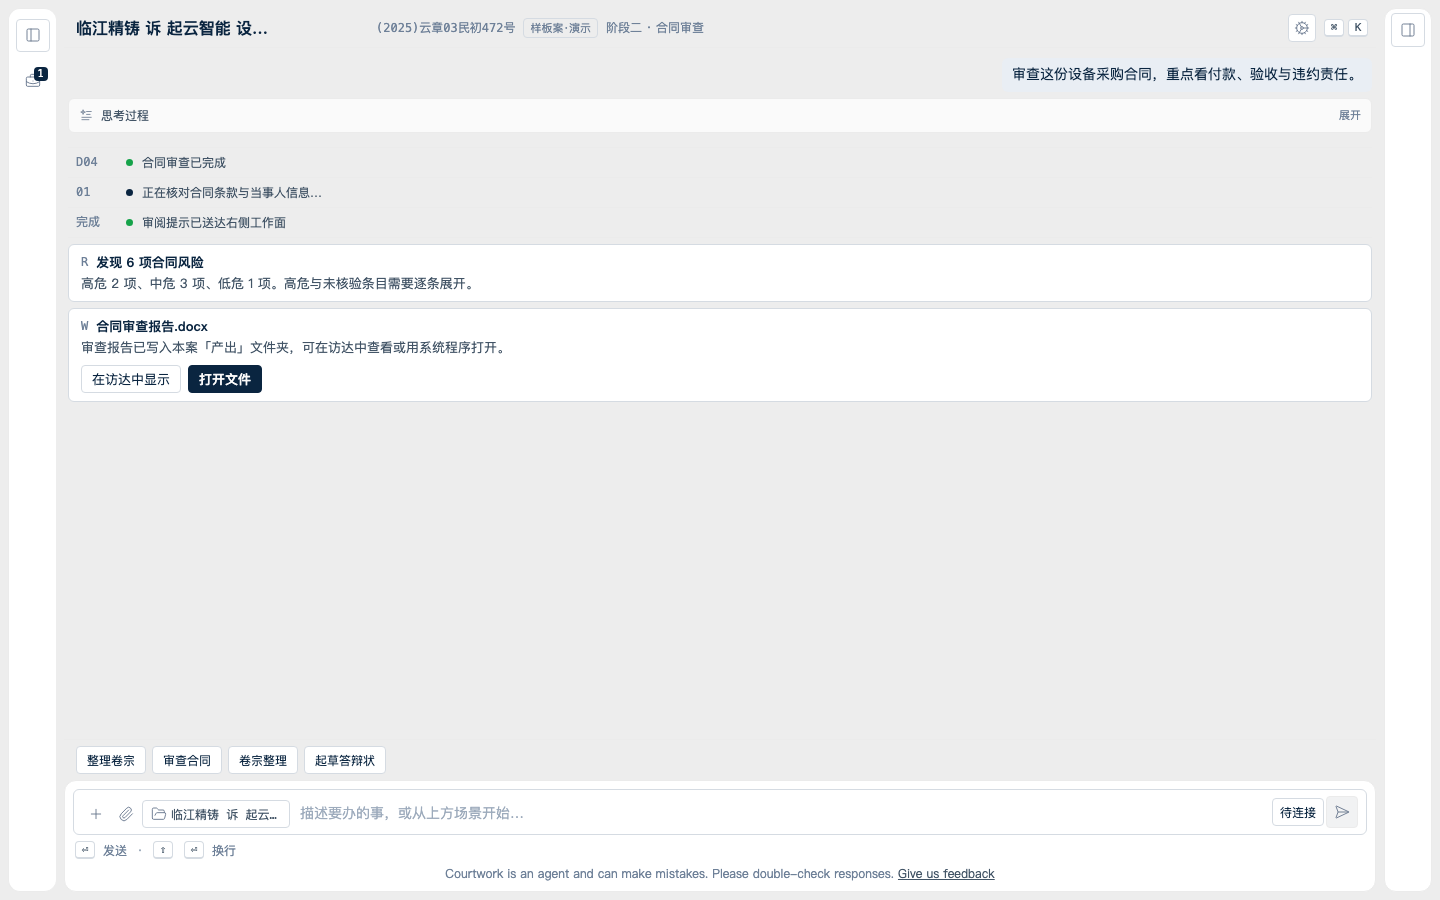
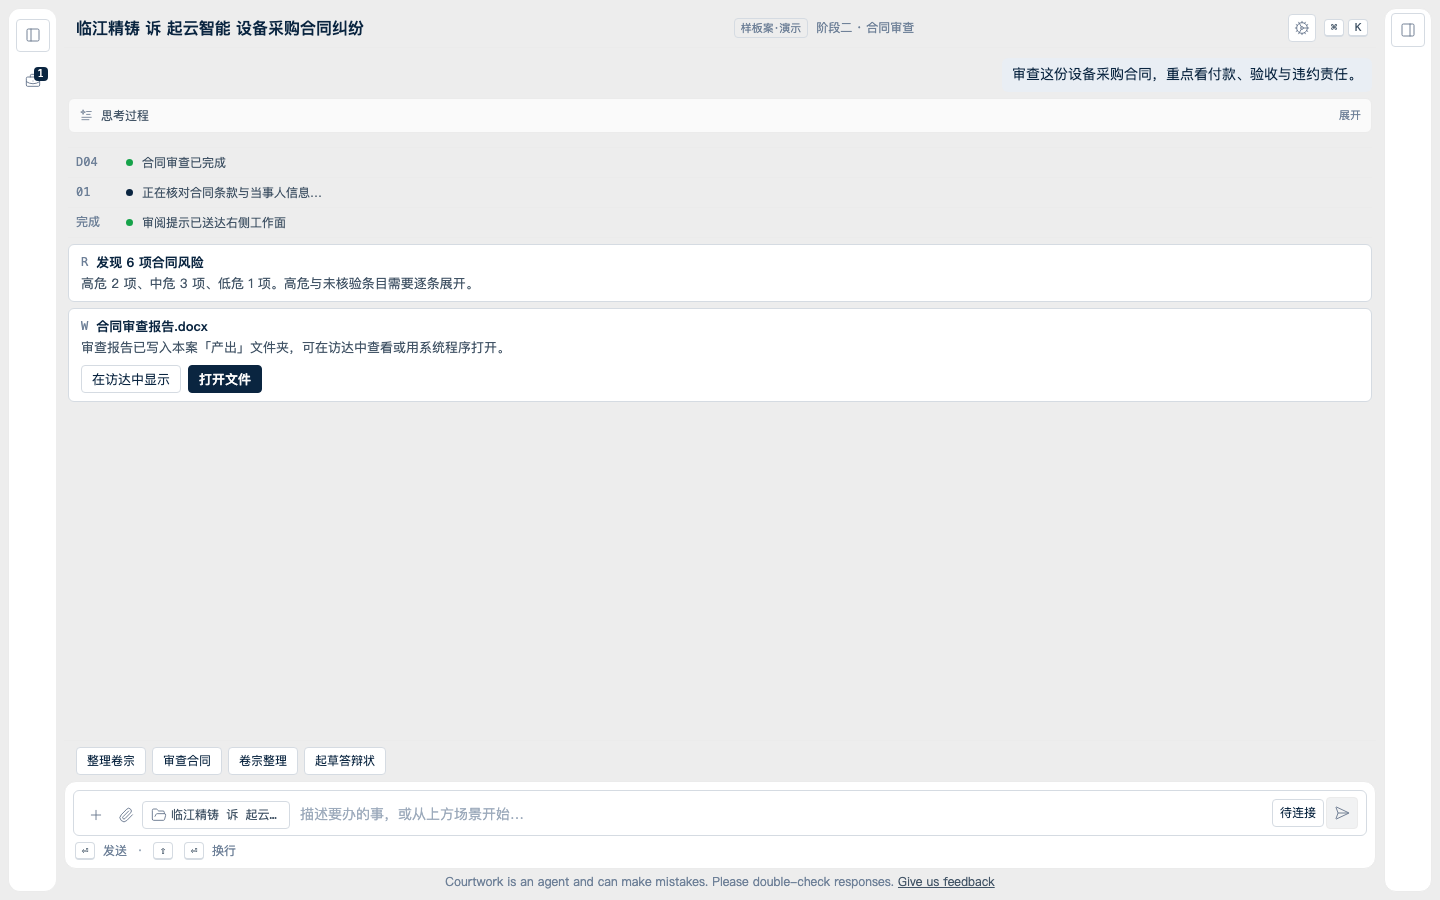
feat(desktop): close RP-2.3 responsive schema layout

diff --git a/apps/desktop/src/styles.css b/apps/desktop/src/styles.css
@@ -33,6 +33,17 @@
   --slate-fg: #475569;
   --slate-bg: #f1f5f9;
   --mono: ui-monospace, "SF Mono", "JetBrains Mono", Menlo, Consolas, "Courier New", monospace;
+  --type-dense-body-size: 13px;
+  --type-dense-meta-size: 12px;
+  --type-dense-line-height: 1.5;
+  --type-dense-mono: var(--mono);
+  --type-reading-size: 15px;
+  --type-reading-line-height: 1.6;
+  --rail-left-width: 248px;
+  --rail-left-min: 224px;
+  --chat-min: 420px;
+  --schema-min: 560px;
+  --rail-collapsed: 48px;
   --motion-press: 70ms;
   --motion-hover: 120ms;
   --motion-tab: 100ms;
@@ -106,7 +117,7 @@ kbd { min-width: 20px; padding: 2px 5px; border: 1px solid var(--border-strong);
 .workspace {
   min-height: 0;
   display: grid;
-  grid-template-columns: 248px minmax(440px, .9fr) minmax(520px, 1.25fr);
+  grid-template-columns: minmax(var(--rail-left-min), var(--rail-left-width)) minmax(var(--chat-min), .9fr) minmax(var(--schema-min), 1.25fr);
   gap: var(--elevation-shell-gap);
   padding: var(--elevation-float-inset);
   transition: none;
@@ -116,9 +127,9 @@ kbd { min-width: 20px; padding: 2px 5px; border: 1px solid var(--border-strong);
 .rail-wordmark img { width: 18px; height: 18px; }
 .workspace.comparing { grid-template-columns: 48px 300px minmax(0, 1fr); }
 .workspace.focus-mode { grid-template-columns: minmax(0, 1fr); padding: var(--elevation-float-inset); }
-.workspace.left-collapsed { grid-template-columns: 48px minmax(400px, .72fr) minmax(680px, 1.55fr); }
-.workspace.right-collapsed { grid-template-columns: 248px minmax(440px, 1fr) 48px; }
-.workspace.left-collapsed.right-collapsed { grid-template-columns: 48px minmax(0, 1fr) 48px; }
+.workspace.left-collapsed { grid-template-columns: var(--rail-collapsed) minmax(var(--chat-min), .9fr) minmax(var(--schema-min), 1.25fr); }
+.workspace.right-collapsed { grid-template-columns: minmax(var(--rail-left-min), var(--rail-left-width)) minmax(var(--chat-min), 1fr) var(--rail-collapsed); }
+.workspace.left-collapsed.right-collapsed { grid-template-columns: var(--rail-collapsed) minmax(var(--chat-min), 1fr) var(--rail-collapsed); }
 .workspace.rails-compact { grid-template-columns: 48px minmax(0, 1fr) minmax(280px, 320px); }
 .case-rail, .conversation, .right-workbench { min-width: 0; min-height: 0; display: flex; flex-direction: column; border-right: 0; }
 .right-workbench { border-right: 0; overflow: hidden; }
@@ -296,7 +307,7 @@ kbd { min-width: 20px; padding: 2px 5px; border: 1px solid var(--border-strong);
   padding: 8px;
   flex: none;
 }
-.composer-stack { flex: none; display: grid; gap: 4px; }
+.composer-stack { flex: none; display: grid; gap: 4px; container-type: inline-size; }
 .composer-float .composer-shell { margin: 0; }
 .user-message { align-self: flex-end; max-width: 88%; padding: 6px 10px; border: 0; border-radius: 6px; background: var(--bg-selected); line-height: 1.55; }
 .data-card, .detail-card, .generated-callout { position: relative; }
@@ -578,7 +589,7 @@ kbd { min-width: 20px; padding: 2px 5px; border: 1px solid var(--border-strong);
   color: var(--text-secondary); font-size: 13px;
 }
 .stack-module-head:hover { background: var(--bg-hover); }
-.stack-module-title { min-width: 0; flex: 1 1 auto; overflow: hidden; text-overflow: ellipsis; white-space: nowrap; color: var(--text-primary); font-weight: 510; font-size: 13px; }
+.stack-module-title { min-width: 0; flex: 1 1 auto; overflow: hidden; text-overflow: ellipsis; white-space: nowrap; color: var(--text-primary); font-weight: 510; font-size: var(--type-dense-body-size); }
 .stack-module-count {
   flex: none; margin-left: auto; color: var(--text-tertiary); font: 12px/1.5 var(--mono); font-variant-numeric: tabular-nums;
 }
@@ -610,14 +621,14 @@ kbd { min-width: 20px; padding: 2px 5px; border: 1px solid var(--border-strong);
 .work-surface-head { border-top: 1px solid var(--border); }
 
 .view-tabs { height: 40px; flex: none; display: flex; gap: 3px; align-items: center; padding: 0 8px; border-bottom: 1px solid var(--border); overflow-x: auto; }
-.view-tabs button { position: relative; height: 28px; padding: 0 8px; border: 1px solid transparent; border-radius: 4px; background: transparent; color: var(--text-secondary); cursor: pointer; font-size: 12px; white-space: nowrap; }
+.view-tabs button { position: relative; height: 28px; padding: 0 8px; border: 1px solid transparent; border-radius: 4px; background: transparent; color: var(--text-secondary); cursor: pointer; font-size: var(--type-dense-meta-size); white-space: nowrap; }
 .view-tabs button:hover { background: var(--bg-hover); }
 .view-tabs button.active { border-color: var(--border-strong); background: #fff; color: var(--text-primary); font-weight: 510; }
 .tab-indicator { position: absolute; right: 6px; bottom: 1px; left: 6px; height: 2px; border-radius: 1px; background: var(--text-primary); transform: scaleX(0); transform-origin: center; transition: transform var(--motion-tab) ease-out; }
 .view-tabs button.active .tab-indicator { transform: scaleX(1); }
 .view-tabs .view-action { display: flex; align-items: center; gap: 5px; border-color: var(--border-strong); }
 .view-tabs .icon-button { width: 28px; display: grid; place-items: center; padding: 0; border-color: var(--border); }
-.view-content { flex: 1; min-height: 0; overflow: hidden; background: #fff; }
+.view-content { flex: 1; min-height: 0; overflow: hidden; background: #fff; container-type: inline-size; }
 .static-viewport { width: 100%; height: 100%; overflow: auto; overscroll-behavior: contain; }
 .empty-state { margin: 16px; padding: 18px; border: 1px dashed var(--border-strong); border-radius: 6px; color: var(--text-tertiary); font-size: 13px; text-align: center; }
 
@@ -643,7 +654,7 @@ kbd { min-width: 20px; padding: 2px 5px; border: 1px solid var(--border-strong);
 
 .table-head { min-height: 28px; align-items: center; border-bottom: 1px solid var(--border); background: var(--bg-surface); color: var(--text-tertiary); font-size: 12px; }
 .dense-table { background: #fff; }
-.dense-row { position: relative; width: 100%; min-height: 30px; align-items: center; border: 0; border-bottom: 1px solid var(--border); background: #fff; cursor: pointer; text-align: left; font-size: 13px; }
+.dense-row { position: relative; width: 100%; min-height: 30px; align-items: center; border: 0; border-bottom: 1px solid var(--border); background: #fff; cursor: pointer; text-align: left; font-size: var(--type-dense-body-size); line-height: var(--type-dense-line-height); }
 .dense-row:hover { background: var(--bg-hover); }
 .dense-row.selected { background: var(--bg-selected); }
 .dense-row > span:not(.signature-line), .dense-row > time, .table-head > span { min-width: 0; padding: 5px 8px; overflow: hidden; text-overflow: ellipsis; white-space: nowrap; }
@@ -652,7 +663,7 @@ kbd { min-width: 20px; padding: 2px 5px; border: 1px solid var(--border-strong);
 .timeline-grid { display: grid; grid-template-columns: 98px 48px minmax(260px, 1fr) 64px; }
 .timeline-grid time { padding-left: 12px; color: var(--text-tertiary); font: 12px/1.5 var(--mono); font-variant-numeric: tabular-nums; }
 .timeline-events { max-height: 56vh; overflow: auto; }
-.detail-card { margin: 10px 12px; width: calc(100% - 24px); font-size: 13px; }
+.detail-card { margin: 10px 12px; width: calc(100% - 24px); font-size: var(--type-dense-body-size); line-height: var(--type-dense-line-height); }
 .detail-card p { margin: 0 0 6px; line-height: 1.55; }
 .verified-block { display: grid; grid-template-columns: 22px max-content minmax(0, 1fr); gap: 7px; align-items: start; padding: 6px 8px; border-top: 1px solid var(--border); border-bottom: 1px solid var(--border); border-radius: 0; background: var(--verified); font-size: 12px; }
 .verified-block button { min-width: 0; padding: 0; border: 0; background: transparent; overflow: hidden; color: var(--blue-fg); cursor: pointer; text-align: left; text-overflow: ellipsis; white-space: nowrap; }
@@ -705,11 +716,11 @@ kbd { min-width: 20px; padding: 2px 5px; border: 1px solid var(--border-strong);
 .matrix-wrap td:has(button:not(:disabled)):hover { background: var(--verified); }
 .matrix-legend { height: 32px; display: flex; justify-content: space-between; align-items: center; padding: 0 10px; color: var(--text-tertiary); font-size: 12px; }
 
-.revision-layout { min-width: 720px; }
+.revision-layout { min-width: 0; }
 .batch-bar { min-height: 36px; display: flex; align-items: center; gap: 10px; padding: 4px 10px; border-bottom: 1px solid var(--border); background: var(--bg-surface); font-size: 12px; }
 .batch-bar small { margin-left: auto; color: var(--text-tertiary); }
 .submission-note { padding: 5px 10px; border-bottom: 1px solid var(--border); color: var(--green-fg); font-size: 12px; }
-.risk-master-detail { min-height: 360px; display: grid; grid-template-columns: minmax(300px, 40%) minmax(360px, 60%); border-bottom: 1px solid var(--border); }
+.risk-master-detail { min-height: 360px; display: grid; grid-template-columns: minmax(220px, 38%) minmax(0, 62%); border-bottom: 1px solid var(--border); }
 .risk-list { border-right: 1px solid var(--border); }
 .risk-grid { display: grid; grid-template-columns: minmax(0, 1fr) 40px 58px; }
 .risk-grid > span:not(.signature-line):first-of-type { padding-left: 12px; }
@@ -741,12 +752,29 @@ kbd { min-width: 20px; padding: 2px 5px; border: 1px solid var(--border-strong);
 .risk-detail > footer { display: flex; flex-wrap: wrap; align-items: center; gap: 6px; margin-top: 10px; color: var(--text-tertiary); font-size: 12px; }
 .risk-detail > footer > span:first-child { flex-basis: 100%; }
 .risk-detail > footer i { flex: 1; }
-.document-preview { padding: 14px 24px; background: #fff; font-size: 15px; line-height: 1.6; text-align: justify; }
+.document-preview { padding: 14px 24px; background: #fff; font-size: var(--type-reading-size); line-height: var(--type-reading-line-height); text-align: justify; }
 .document-preview header { display: flex; justify-content: space-between; gap: 12px; padding-bottom: 8px; border-bottom: 1px solid var(--border); }
 .document-preview header strong { min-width: 0; overflow: hidden; text-overflow: ellipsis; white-space: nowrap; }
 .document-preview header span { color: var(--text-tertiary); font: 12px/1.5 var(--mono); font-variant-numeric: tabular-nums; }
 .document-preview del { color: var(--red-fg); background: var(--red-bg); }
 .document-preview ins { color: var(--blue-fg); background: var(--blue-bg); }
+
+@container (max-width: 700px) {
+  .risk-master-detail { grid-template-columns: minmax(0, 1fr); grid-template-rows: minmax(150px, 34%) minmax(240px, 66%); }
+  .risk-list { min-height: 0; overflow: auto; border-right: 0; border-bottom: 1px solid var(--border); }
+  .risk-detail { min-height: 0; overflow: auto; }
+  .batch-bar { flex-wrap: wrap; }
+  .batch-bar small { width: 100%; margin-left: 0; }
+  .graph-layout { grid-template-columns: minmax(0, 1fr); grid-template-rows: minmax(300px, 1fr) 160px auto; }
+  .relation-list { border-top: 1px solid var(--border); border-left: 0; }
+}
+
+@container (max-width: 460px) {
+  .case-chip { max-width: 108px; }
+  .composer-provider-anchor .model-config-trigger { max-width: 78px; }
+  .composer-input { padding-inline: 2px; }
+  .composer-kbd-hint { gap: 4px; }
+}
 
 .draft-panel { min-height: 100%; padding: 10px 12px; background: var(--bg-surface); }
 .draft-panel > header { height: 42px; display: flex; align-items: center; padding: 0 12px; border: 1px solid var(--border); border-bottom: 0; background: #fff; }
@@ -754,7 +782,7 @@ kbd { min-width: 20px; padding: 2px 5px; border: 1px solid var(--border-strong);
 .draft-panel > header strong { font-weight: 510; }
 .draft-panel > header span { color: var(--text-tertiary); font-size: 12px; }
 .draft-panel > header button { margin-left: auto; }
-.draft-editor, .draft-reading { width: 100%; min-height: 520px; margin: 0; padding: 28px 40px; border: 1px solid var(--border); border-radius: 0; background: #fff; color: var(--text-primary); font-size: 15px; line-height: 1.6; }
+.draft-editor, .draft-reading { width: 100%; min-height: 520px; margin: 0; padding: 28px 40px; border: 1px solid var(--border); border-radius: 0; background: #fff; color: var(--text-primary); font-size: var(--type-reading-size); line-height: var(--type-reading-line-height); }
 .draft-editor { cursor: text; }
 .draft-panel.frozen .draft-reading { background: var(--bg-surface); }
 .draft-editor h2, .draft-reading h2 { margin: 0 0 14px; font-size: 16px; font-weight: 510; letter-spacing: -.01em; }

diff --git a/apps/desktop/tests/e2e/rp23-responsive.spec.ts b/apps/desktop/tests/e2e/rp23-responsive.spec.ts
@@ -1,0 +1,28 @@
+import { expect, test } from '@playwright/test';
+import { openWorkbench } from './helpers';
+
+for (const width of [1180, 1280, 1440, 1600]) {
+  test(`RP-2.3 ${width}px：三栏比例闭合且无全局横向溢出`, async ({ page }) => {
+    await page.setViewportSize({ width, height: 900 });
+    await openWorkbench(page);
+    const overflow = await page.evaluate(() => ({
+      root: [document.documentElement.scrollWidth, document.documentElement.clientWidth],
+      body: [document.body.scrollWidth, document.body.clientWidth],
+      workbench: [
+        document.querySelector<HTMLElement>('[data-testid="workbench"]')?.scrollWidth ?? 0,
+        document.querySelector<HTMLElement>('[data-testid="workbench"]')?.clientWidth ?? 0,
+      ],
+    }));
+    for (const [scrollWidth, clientWidth] of Object.values(overflow)) expect(scrollWidth).toBeLessThanOrEqual(clientWidth);
+    await expect(page.getByTestId('workspace')).toHaveAttribute('data-auto-left-collapsed', width < 1240 ? 'true' : 'false');
+
+    const schemaFont = Number.parseFloat(await page.locator('.dense-row').first().evaluate((node) => getComputedStyle(node).fontSize));
+    expect(schemaFont).toBeGreaterThanOrEqual(13);
+    await expect(page.locator('.stack-module-title').first()).toHaveCSS('white-space', 'nowrap');
+
+    if (width === 1440) {
+      await expect(page.locator('.document-preview')).toHaveCSS('font-size', '15px');
+      await expect(page.locator('.document-preview')).toHaveCSS('line-height', '24px');
+    }
+  });
+}

diff --git a/apps/desktop/src/App.tsx b/apps/desktop/src/App.tsx
@@ -105,6 +105,18 @@ function useWideSplitAvailable() {
   return available;
 }
 
+function useNarrowRailRequired() {
+  const [required, setRequired] = useState(() => window.innerWidth < 1240);
+  useEffect(() => {
+    const query = window.matchMedia('(max-width: 1239px)');
+    const update = () => setRequired(query.matches);
+    update();
+    query.addEventListener('change', update);
+    return () => query.removeEventListener('change', update);
+  }, []);
+  return required;
+}
+
 export function App() {
   /** 案件域：仅 demo 容器有 flow；非 demo 为 null（D-1 容器隔离） */
   const [flow, setFlow] = useState<ScenarioFlow | null>('S3');
@@ -157,6 +169,7 @@ export function App() {
   const [userModuleOverride, setUserModuleOverride] = useState<UserModuleOverride>({});
   const feedbackTimer = useRef<ReturnType<typeof setTimeout> | undefined>(undefined);
   const wideSplitAvailable = useWideSplitAvailable();
+  const narrowRailRequired = useNarrowRailRequired();
   const openedAt = useRef<Record<string, number>>({});
   const lastReplayedFlow = useRef<ScenarioFlow | null | undefined>(undefined);
   const resolvedRequest = useRef<string | undefined>(undefined);
@@ -743,17 +756,19 @@ export function App() {
     },
   ];
 
-  const compactLayout = leftCollapsed && !moduleOpen.progress && !moduleOpen['working-folders'] && !moduleOpen.context
+  const effectiveLeftCollapsed = leftCollapsed || narrowRailRequired;
+  const compactLayout = effectiveLeftCollapsed && !moduleOpen.progress && !moduleOpen['working-folders'] && !moduleOpen.context
     && !moduleOpen.timeline && !moduleOpen.graph && !moduleOpen.matrix && !moduleOpen.revision && !moduleOpen.draft;
 
   return (
     <main className="app-shell" data-testid="workbench" data-compact={compactLayout ? 'true' : 'false'}>
       <div
-        className={`workspace ${comparing ? 'comparing' : ''} ${focusMode ? 'focus-mode' : ''} ${leftCollapsed ? 'left-collapsed' : ''} ${rightCollapsed ? 'right-collapsed' : ''} ${compactLayout ? 'rails-compact' : ''}`}
+        className={`workspace ${comparing ? 'comparing' : ''} ${focusMode ? 'focus-mode' : ''} ${effectiveLeftCollapsed ? 'left-collapsed' : ''} ${rightCollapsed ? 'right-collapsed' : ''} ${compactLayout ? 'rails-compact' : ''}`}
         data-testid="workspace"
         data-comparing={comparing ? 'true' : 'false'}
         data-focus-mode={focusMode ? 'true' : 'false'}
-        data-left-collapsed={leftCollapsed ? 'true' : 'false'}
+        data-left-collapsed={effectiveLeftCollapsed ? 'true' : 'false'}
+        data-auto-left-collapsed={narrowRailRequired ? 'true' : 'false'}
         data-right-collapsed={rightCollapsed ? 'true' : 'false'}
         data-compact={compactLayout ? 'true' : 'false'}
       >
@@ -773,7 +788,7 @@ export function App() {
             fileOpsMode={fileOpsMode}
             archiveConfirmCaseId={archiveConfirmCaseId}
             containerizeUnfiledId={containerizeUnfiledId}
-            leftCollapsed={leftCollapsed}
+            leftCollapsed={effectiveLeftCollapsed}
             onSelectCase={(id) => {
               setSelectedCaseId(id);
               // 案件行：选中即展开（含已选中但被收起的情况 → 强制 expandedCaseId=id）

diff --git a/apps/desktop/SPEC.md b/apps/desktop/SPEC.md
@@ -52,6 +52,16 @@ hover 统一 120ms ease-out；动画属性只许 transform/opacity/background-co
 - visual-audit：[`26-rp2-1-vertical-full-1440.png`](visual-audit/26-rp2-1-vertical-full-1440.png) / [`27-rp2-1-vertical-collapsed-1440.png`](visual-audit/27-rp2-1-vertical-collapsed-1440.png)。
 - RP-2.2：composer 声明移出 L1 输入浮卡，保持同宽底对齐并允许自然换行；chat/rail/module/work-surface 标题统一 `min-width:0 + nowrap + ellipsis`，计数与动作固定，收窄时禁止逐字竖排或越界。Playwright floor 95→96。
 
+### RP-2.3 · 比例与 Schema 工作面收口（架构批准 `43d99cd`）
+
+- 数学闭合写死：`1180–1239px` 自动进入左栏 48px 收敛态；`≥1240px` 才允许左栏展开。禁止依赖用户先手动折叠来消除初始溢出。
+- 宽度钩子：左栏 248/min224、chat min420/0.9fr、schema min560/1.25fr、折叠 48；全部由根 CSS 变量进入 `minmax()`，本单不做 resize handle/持久化。
+- Schema 四层：通用模块头 → 工作面标题/计数 → Tabs → schema 主工作区；正文消费 `type.dense.bodySize=13px`，Tab/表头/计数消费 `type.dense.metaSize=12px`，编号消费 dense mono。
+- 560–700px schema 容器内，风险主从区由左右 38/62 切为上下 34/66；图谱索引下移。选中仍只用 `bg.selected`，内部以 hairline 分隔，不新增卡层。
+- **阅读不变量**：document preview / draft reading 固定 `15px / 1.6`，不随 schema dense 或容器宽度缩小。
+- 自动验收：1180/1280/1440/1600 四档均断言 `scrollWidth ≤ clientWidth`、标题 nowrap/ellipsis、schema 正文 ≥13px；1440 另锁文书 15px。Playwright floor 96→100。
+- visual-audit：[`rp2-3-1180.png`](visual-audit/rp2-3-1180.png) / [`rp2-3-1280.png`](visual-audit/rp2-3-1280.png) / [`rp2-3-1440.png`](visual-audit/rp2-3-1440.png) / [`rp2-3-1600.png`](visual-audit/rp2-3-1600.png)。
+
 ## FIX-KC-1 · 凭证授权流（据 DBG-2，2026-07-11）
 
 权威：docs/55 FIX-KC-1。落点 `src-tauri/src/lib.rs` + `credentials/client.ts` + 设置页诊断/恢复。